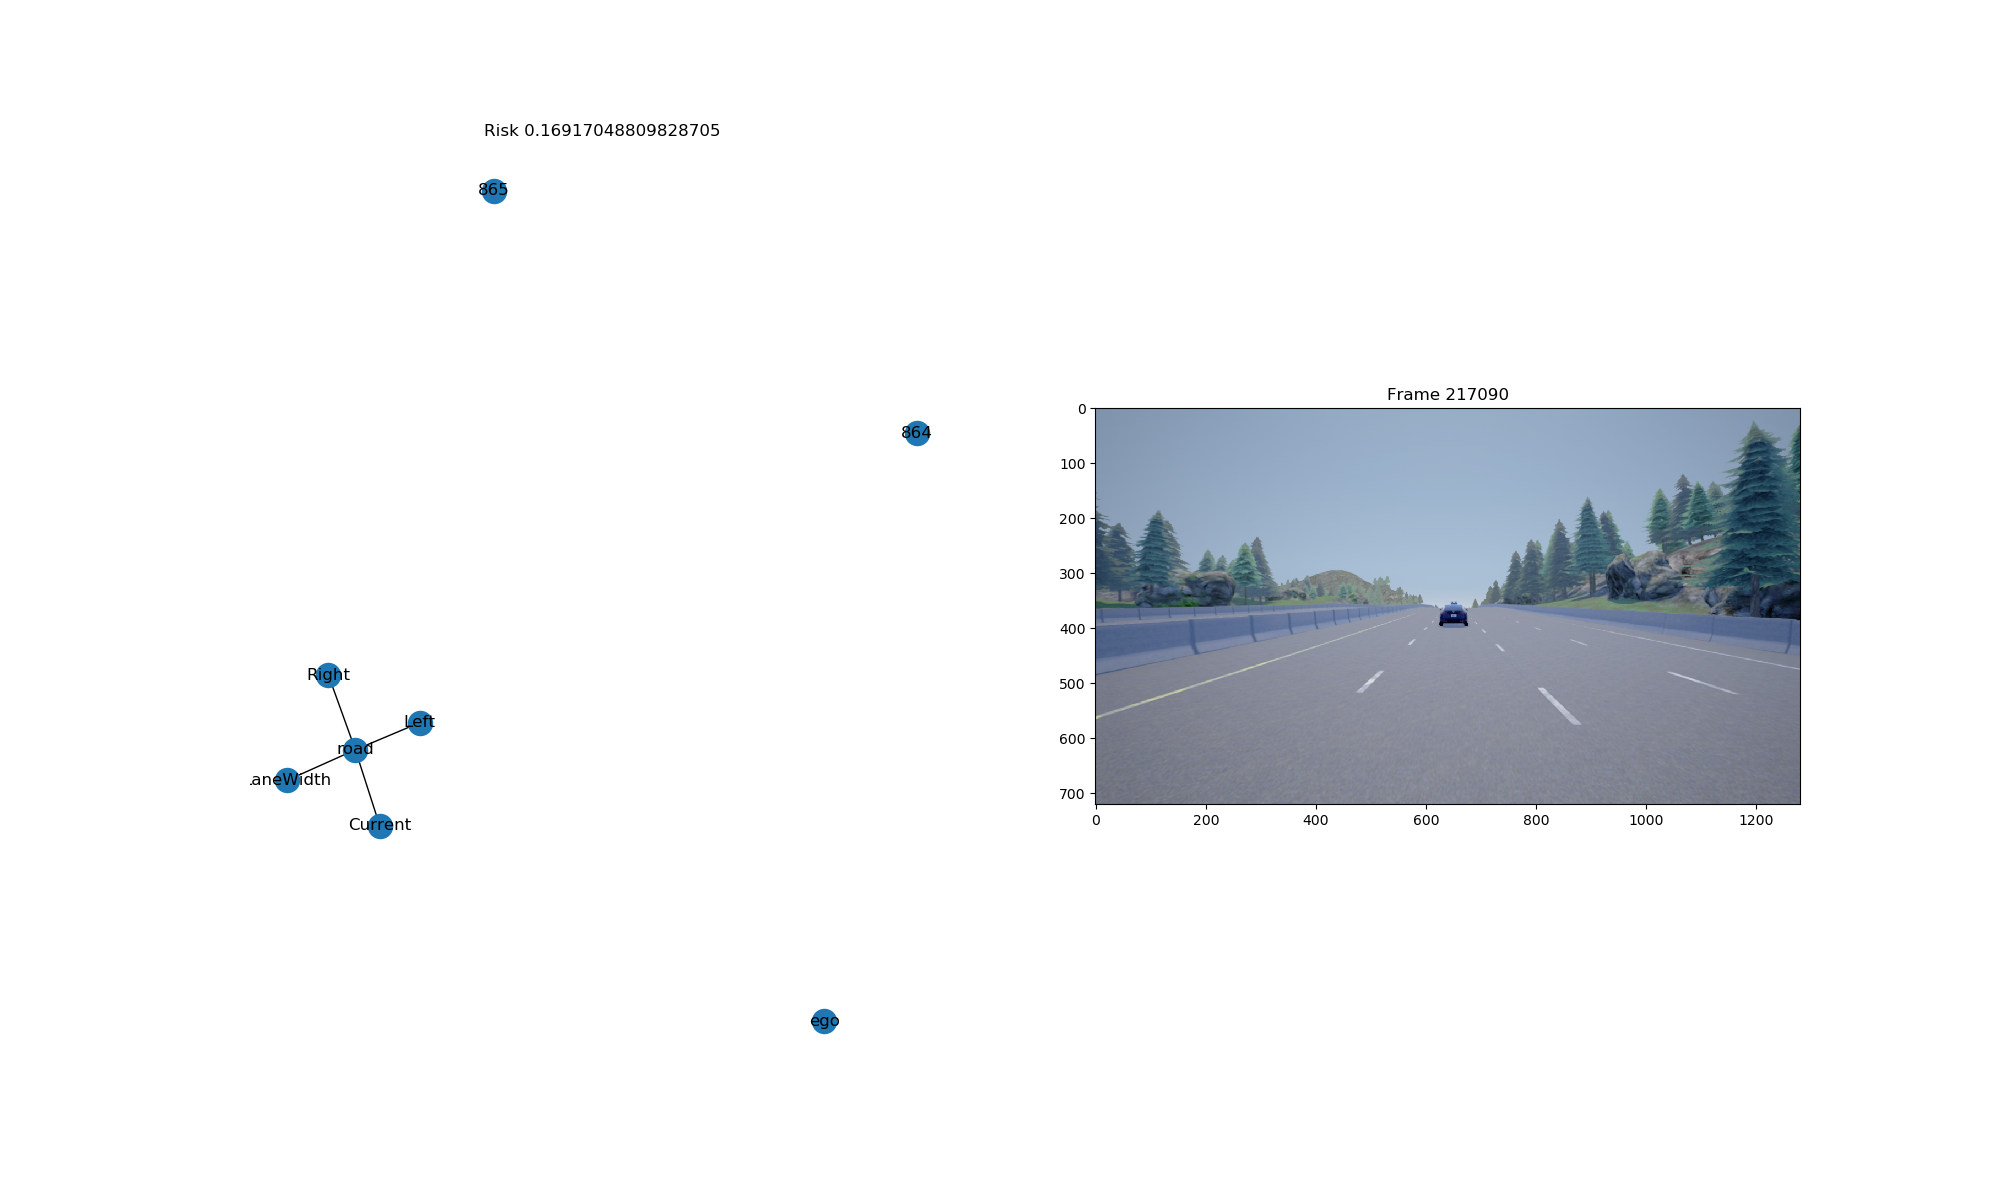
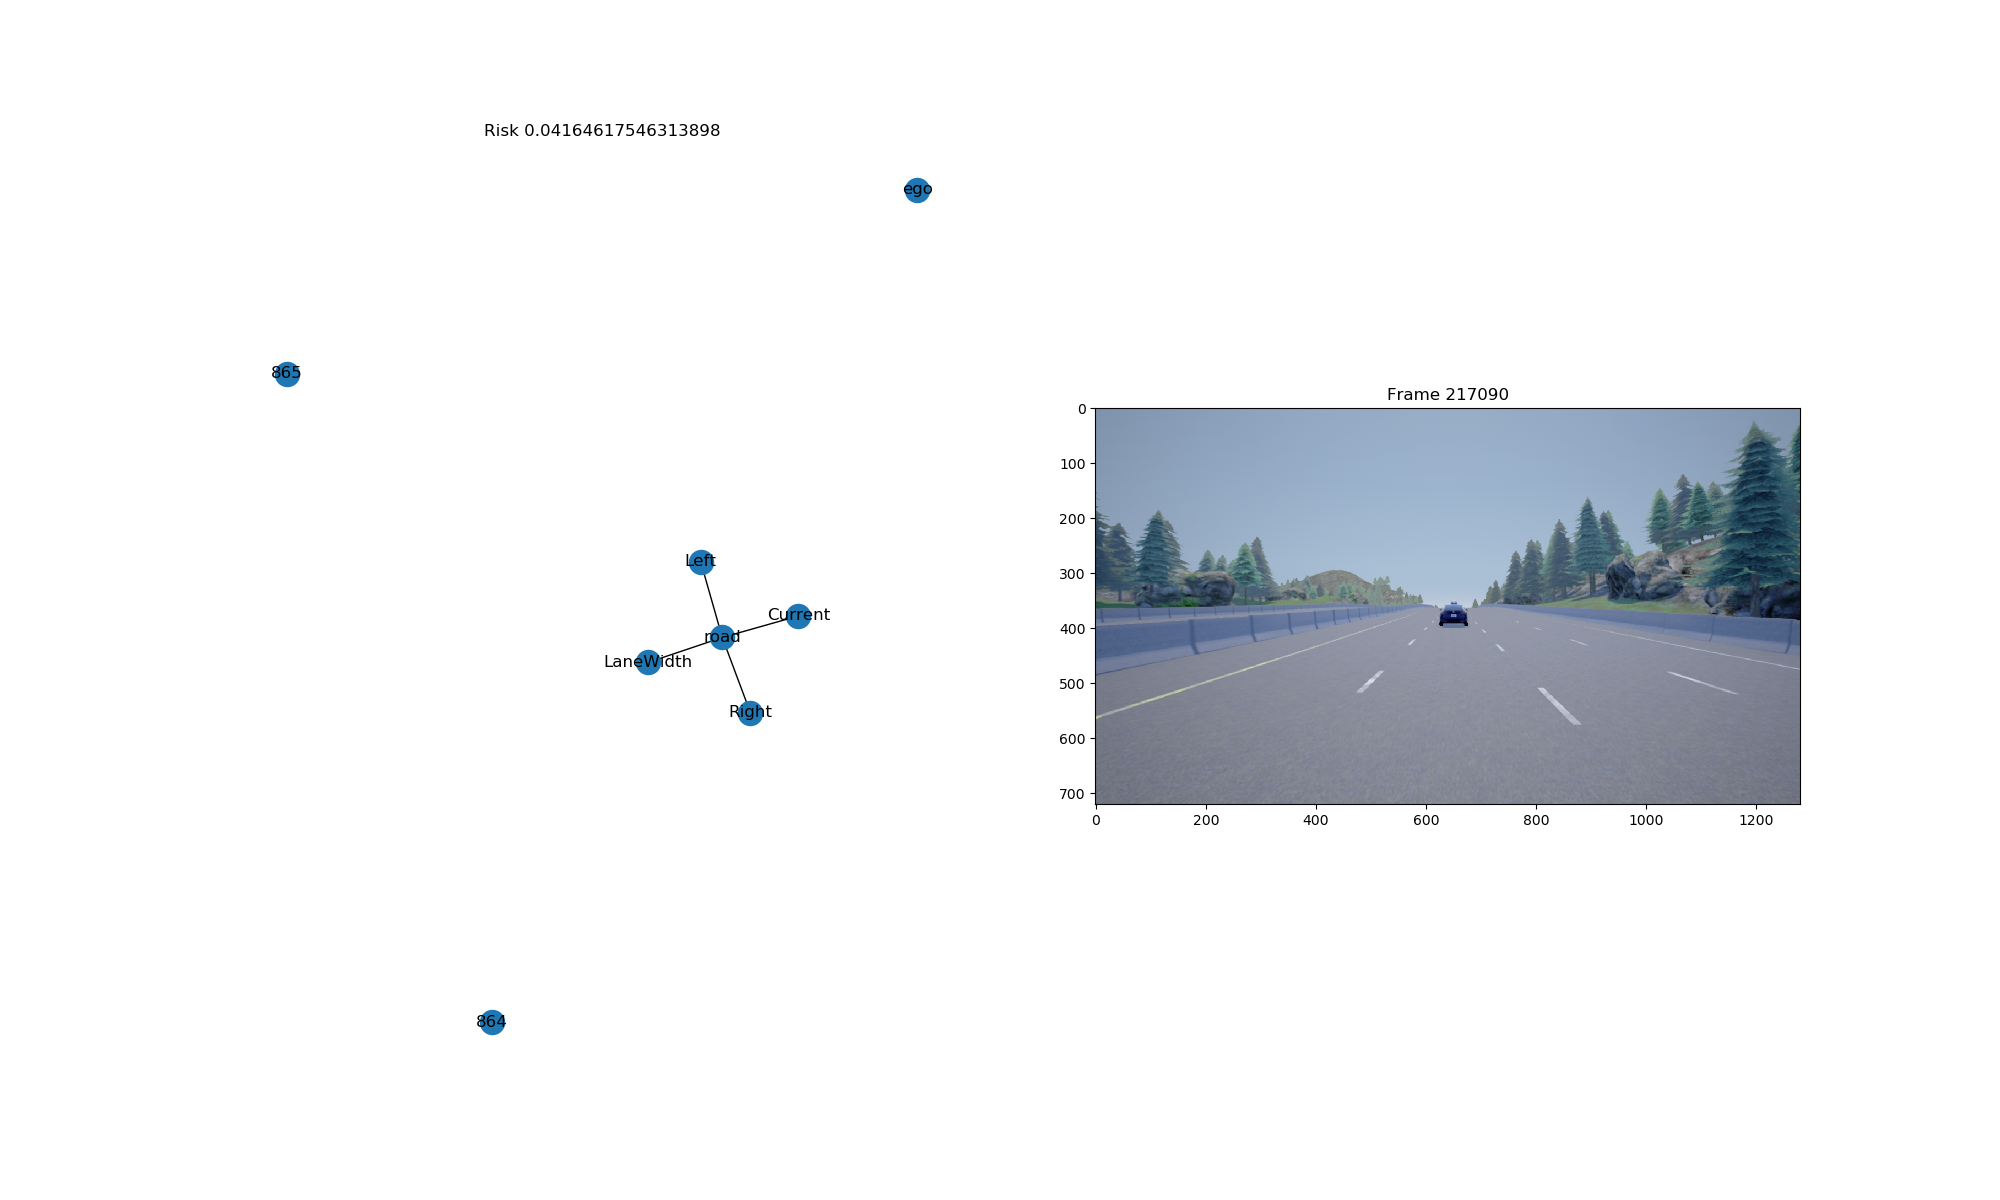
scenegraph extractor.

diff --git a/scene_graph.py b/scene_graph.py
@@ -1,16 +1,21 @@
 
 import networkx as nx
+import matplotlib.pyplot as plt
+import matplotlib.animation as animation
 from relation_extractor import Relations, RelationExtractor
-import pdb
+import pdb, json, random
+from pathlib import Path
 
 #basic class for abstracting a node in the scene graph. this is mainly used for holding the data for each node.
 class Node:
-
     def __init__(self, name, attr):
         self.name = name
         self.attr = attr
+
+    def __repr__(self):
+        return "%s" % self.name 
     
-    
+
 #class defining scene graph and its attributes. contains functions for construction and operations
 class SceneGraph:
     
@@ -67,8 +72,6 @@ class SceneGraph:
             else:
                 self.add_actor_dict(attrs)
             
-                
-            
     #calls RelationExtractor to build semantic relations between every pair of nodes in graph. call this function after all nodes have been added to graph.
     def extract_semantic_relations(self):
         for node1 in self.g.nodes:
@@ -78,11 +81,69 @@ class SceneGraph:
                         self.add_relations(self.relation_extractor.extract_relations(node1.attr, node2.attr))
     
 
-if __name__ == '__main__':
-#demo code
-    sg = SceneGraph()
-    re = RelationExtractor()
-    import pdb; pdb.set_trace()
+class SceneGraphExtractor:
+    def __init__(self):
+        self.scenegraphs = {}
+        self.scene_images = {}
 
+        # For Visualization
+        self.fig, (self.ax_graph, self.ax_img) = plt.subplots(1, 2, figsize=(20, 12))
+        self.fig.canvas.set_window_title("Scene Graph Visualization")
+
+    def load(self, path):
+        with open(path, 'r') as f:
+            framedict = json.loads(f.read())
+            for frame, frame_dict in framedict.items():
+                scenegraph = SceneGraph()
+                scenegraph.add_frame_dict(frame_dict)
+                self.scenegraphs[frame] = scenegraph
+
+    def build_corresponding_images(self, path):
+        for frame, scenegraph in self.scenegraphs.items():
+            try:
+                print('catch %s/%.8d.png'%(path, int(frame)))
+                img = plt.imread('%s/%.8d.png'%(path, int(frame)))
+                self.scene_images[frame] = (scenegraph, img)
+            except Exception as e:
+                print(e)
+        
+    def store(self, path):
+        for frame, (scenegraph, image) in self.scene_images.items():
+            nx.draw(scenegraph.g, with_labels=True, ax=self.ax_graph)
+            self.ax_img.imshow(image)
+            self.ax_graph.set_title("Risk {}".format(random.random()))
+            self.ax_img.set_title("Frame {}".format(frame))
+            plt.savefig('%s/%s.png'%(path, frame))
+            self.ax_graph.clear()
+            self.ax_img.clear()
+
+    def update(self, num):
+        self.ax_graph.clear()
+        self.ax_img.clear()
+
+        frame = list(self.scene_images.keys())[num]
+        nx.draw(self.scene_images[frame][0].g, with_labels=True, ax=self.ax_graph)
+        self.ax_img.imshow(self.scene_images[frame][1])
+
+        # Set the title
+        self.ax_graph.set_title("Risk {}".format(random.random()))
+        self.ax_img.set_title("Frame {}".format(num))
+
+    def show_animation(self):
+        ani = animation.FuncAnimation(self.fig, self.update, frames=len(self.scene_images.keys()))
+        plt.show()
+
+if __name__ == '__main__':
+    # sg = SceneGraph()
+    # re = RelationExtractor()
+    txt_path = r".\input\_out\data\217071-217217.txt"
+    img_path = r".\input\_out\raw_images"
+    store_path = Path(r'.\input\_out\scenes')
+    store_path.mkdir(parents=True, exist_ok=True)
     
-    
+    sge = SceneGraphExtractor()
+    sge.load(txt_path)
+    sge.build_corresponding_images(img_path)
+    sge.store(store_path)
+    sge.show_animation()
+    pdb.set_trace()
